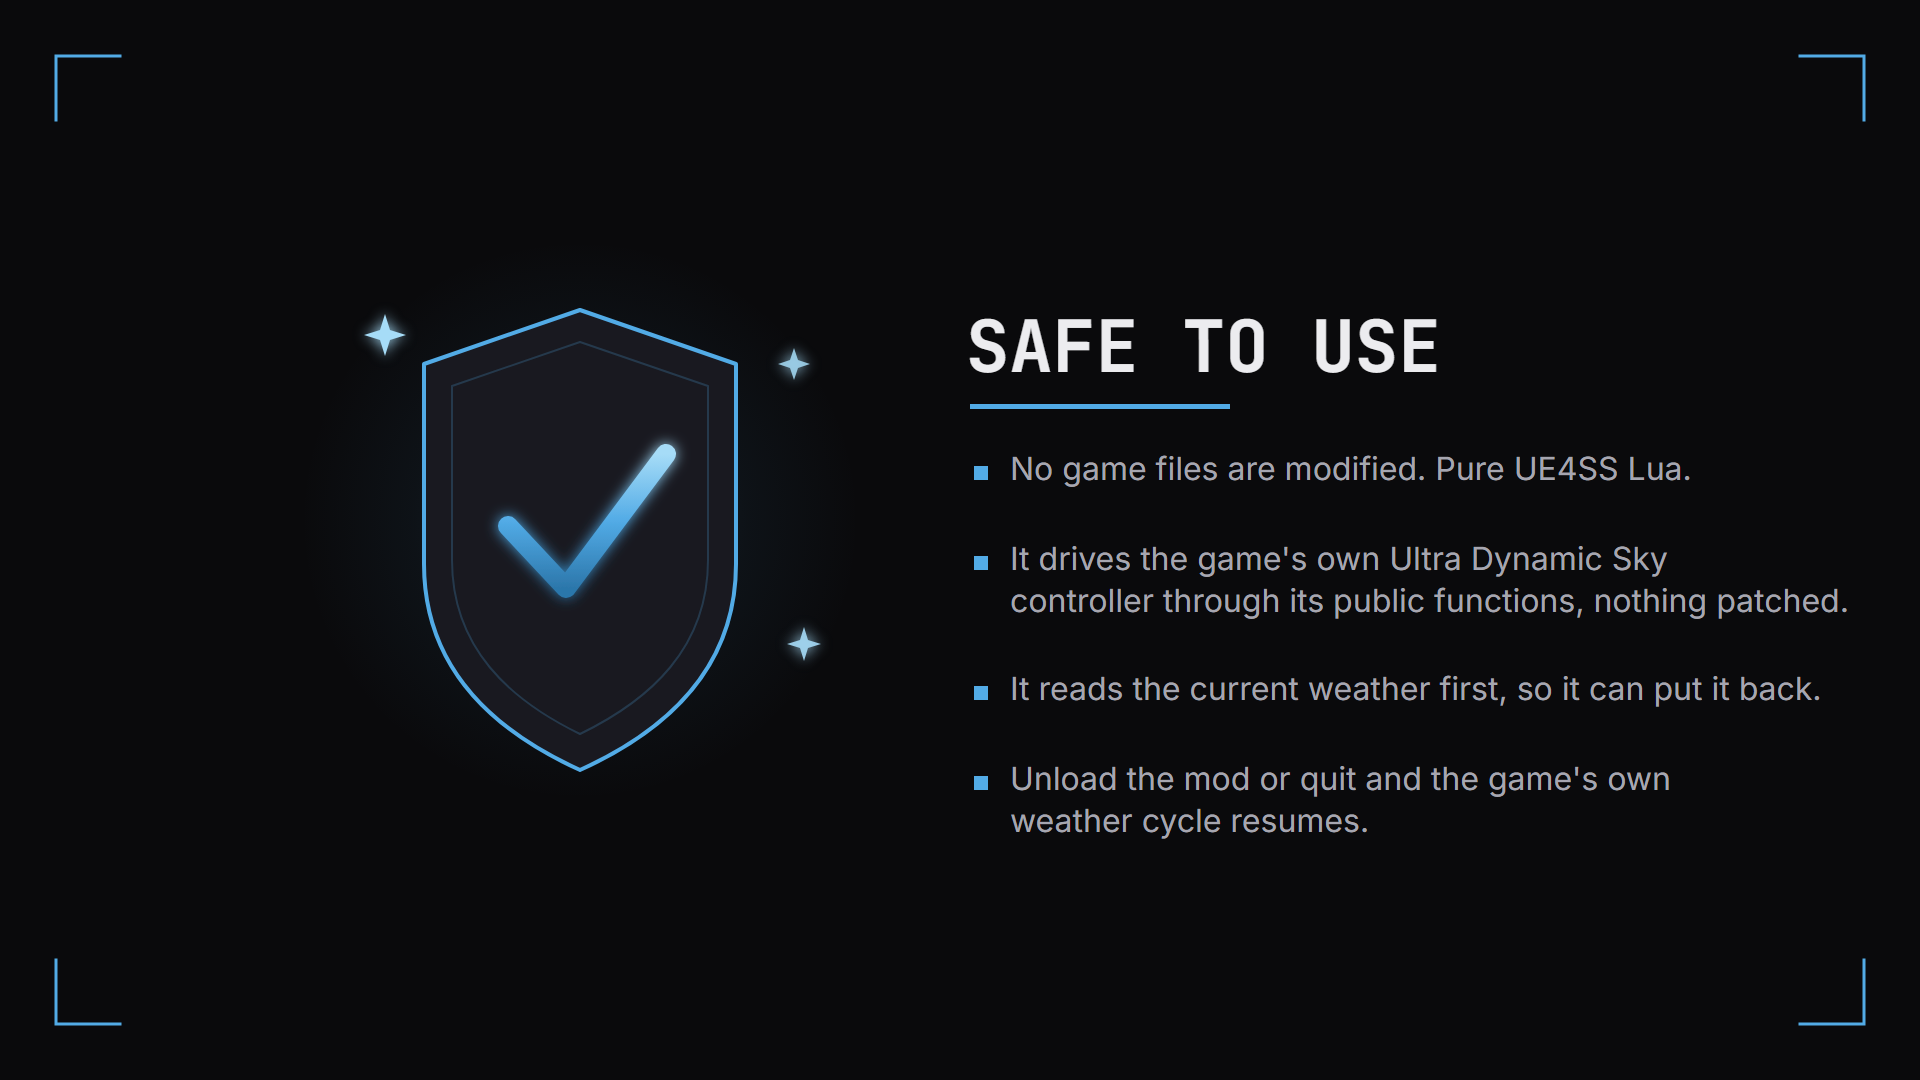
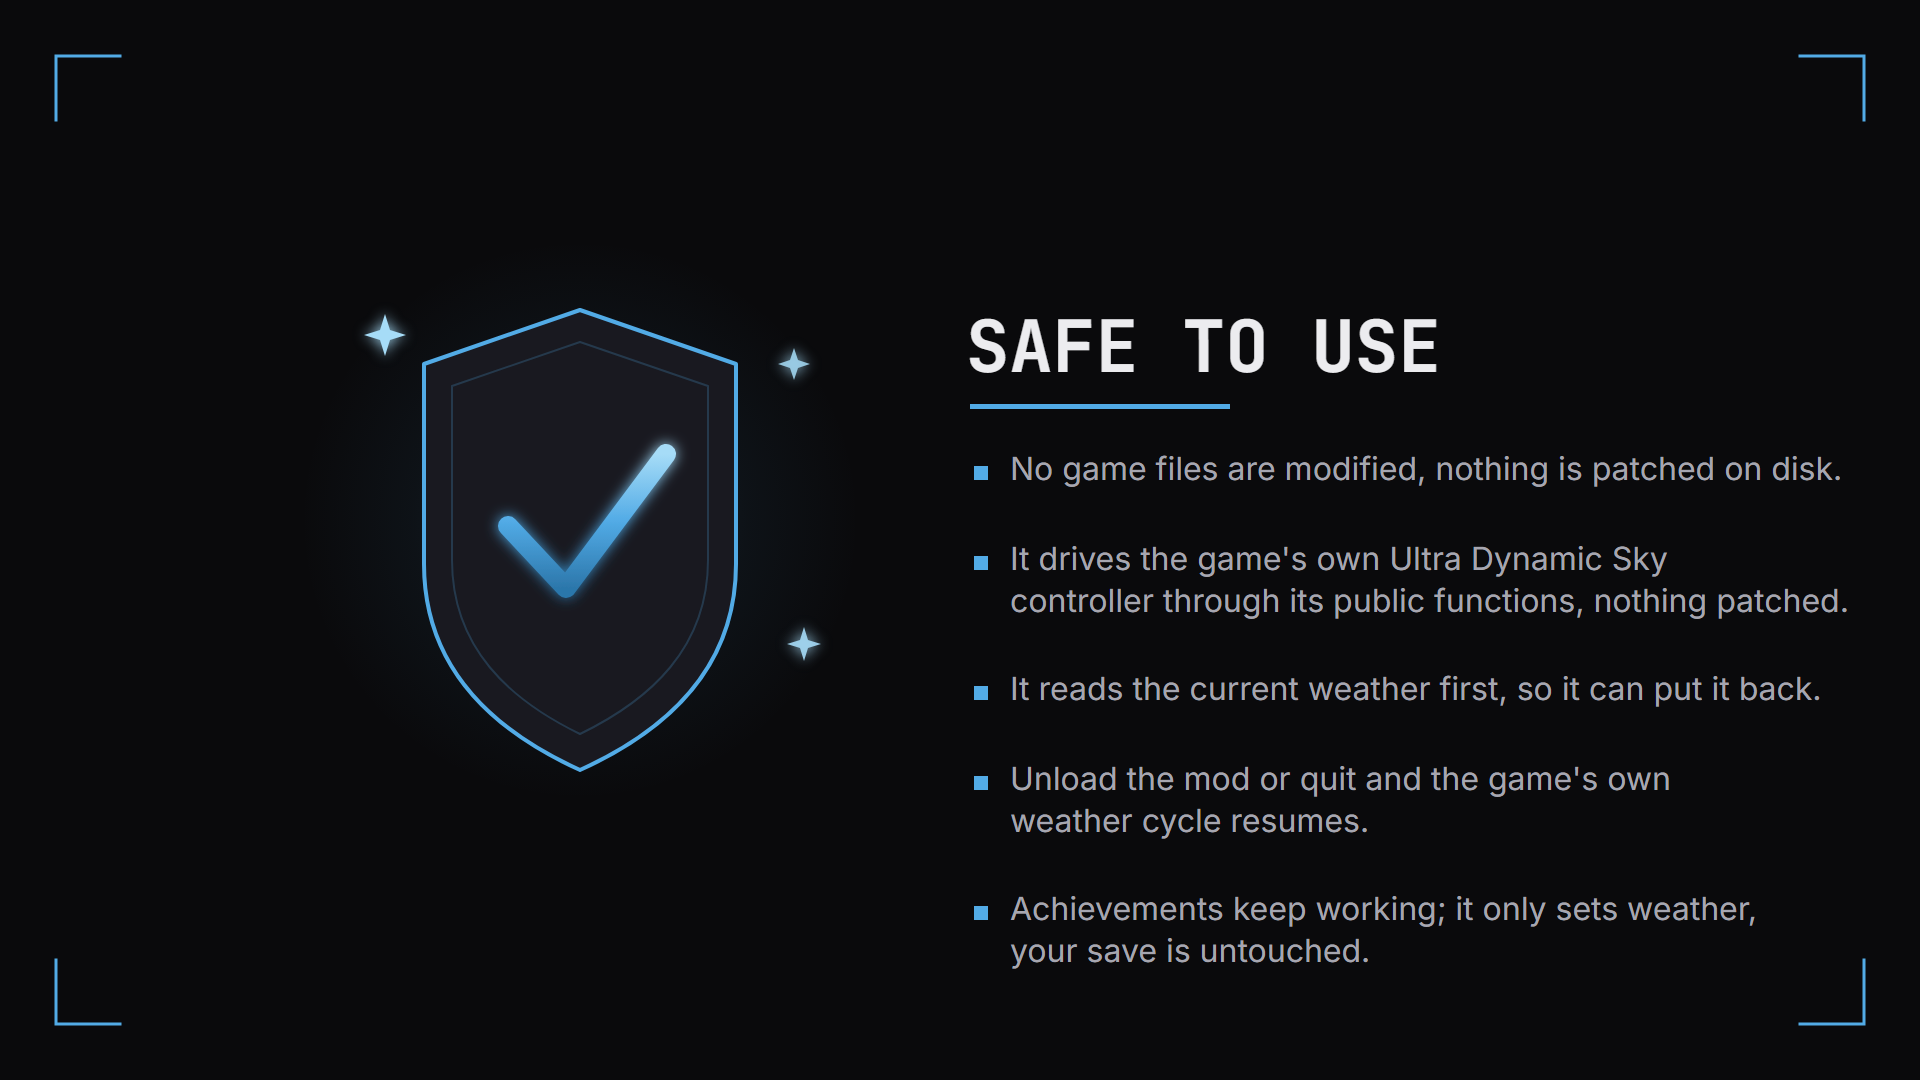
Wetterwerk: fix safety card (drop "pure Lua", add achievements)
The safety card and the description's safety section still claimed "Pure
UE4SS Lua" (it is a C++ mod now) and did not mention achievements. Drop
the Lua line and add a point that achievements keep working (the mod only
sets and reads the weather; it does not touch the save). Re-rendered
gallery-safe + its bare variants.

Changed region(s): [[0.5, 0.825, 0.9062, 0.8861], [0.75, 0.4278, 0.9688, 0.4583]]

diff --git a/brand/templates/wetterwerk/gallery-safe.html b/brand/templates/wetterwerk/gallery-safe.html
@@ -47,7 +47,7 @@
   <!-- bullet lines -->
   <g>
     <rect x="134" y="466" width="14" height="14" fill="var(--accent)"/>
-    <text x="170" y="480" class="sans ink1" font-size="32">No game files are modified. Pure UE4SS Lua.</text>
+    <text x="170" y="480" class="sans ink1" font-size="32">No game files are modified, nothing is patched on disk.</text>
 
     <rect x="134" y="556" width="14" height="14" fill="var(--accent)"/>
     <text x="170" y="570" class="sans ink1" font-size="32">It drives the game's own Ultra Dynamic Sky</text>
@@ -59,6 +59,10 @@
     <rect x="134" y="776" width="14" height="14" fill="var(--accent)"/>
     <text x="170" y="790" class="sans ink1" font-size="32">Unload the mod or quit and the game's own</text>
     <text x="170" y="832" class="sans ink1" font-size="32">weather cycle resumes.</text>
+
+    <rect x="134" y="906" width="14" height="14" fill="var(--accent)"/>
+    <text x="170" y="920" class="sans ink1" font-size="32">Achievements keep working; it only sets weather,</text>
+    <text x="170" y="962" class="sans ink1" font-size="32">your save is untouched.</text>
   </g>
   </g>
 